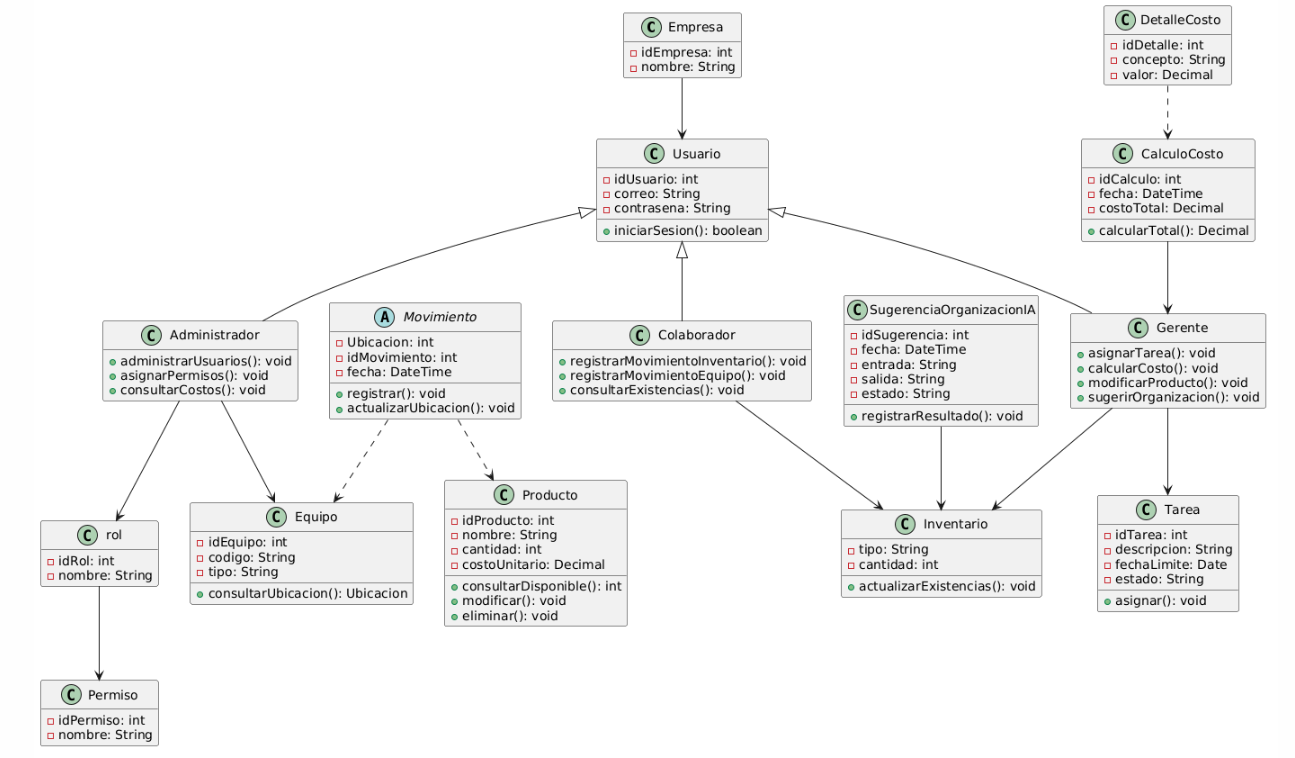
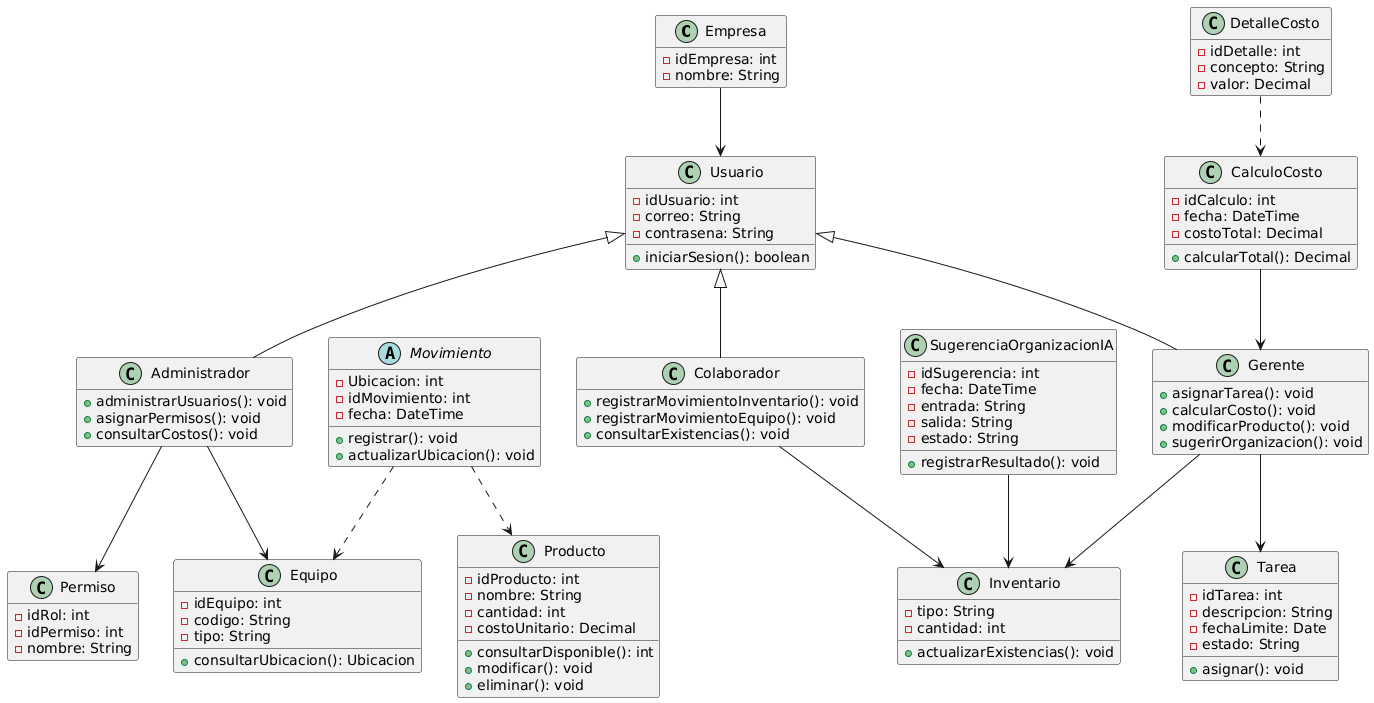
update 5.2

diff --git a/docs/project-proyecto5.md b/docs/project-proyecto5.md
@@ -141,11 +141,8 @@ class Gerente {
  +sugerirOrganizacion(): void
 }
 
-class rol {
--idRol: int
- -nombre: String
-}
 class Permiso {
+ -idRol: int
  -idPermiso: int
  -nombre: String
 }
@@ -211,10 +208,7 @@ Empresa --> Usuario
 Usuario <|-- Gerente
 Usuario <|-- Colaborador
 Usuario <|-- Administrador
-
-Administrador --> rol
-rol --> Permiso
-
+Administrador --> Permiso
 Administrador --> Equipo
 Movimiento ..> Equipo
 Movimiento ..> Producto
@@ -224,7 +218,7 @@ Gerente --> Tarea
 SugerenciaOrganizacionIA --> Inventario
 CalculoCosto --> Gerente
 DetalleCosto ..> CalculoCosto
-
+@enduml
 
 
 ---
